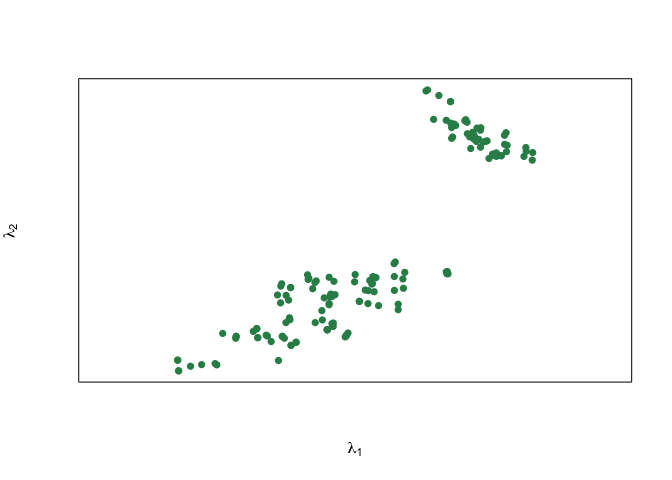
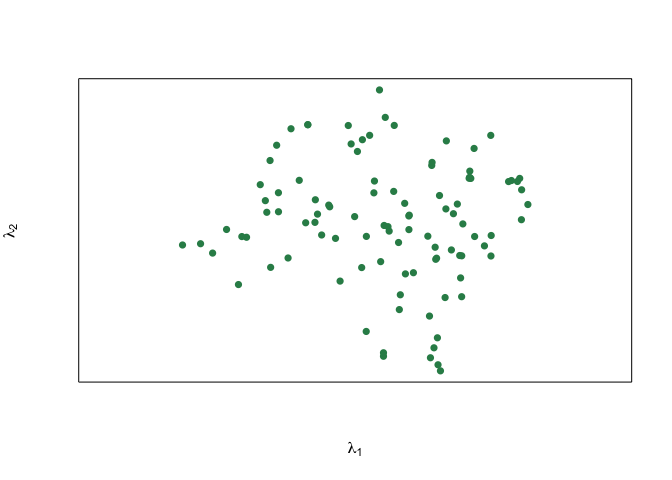
Updated read me

diff --git a/README.md b/README.md
@@ -6,7 +6,8 @@
 <!-- badges: start -->
 <!-- badges: end -->
 
-The goal of prinsurf is to construct a principal surfaces to a
+The goal of prinsurf is to construct a principal surfaces that are
+two-dimensional surfaces that pass through the middle of a
 $p$-dimensional dataset.
 
 ## Installation
@@ -21,21 +22,33 @@ devtools::install_github("RaeesaGaney91/prinsurf")
 
 ## Example
 
-This is a basic example:
+This is a basic example on a simulated data set:
 
 ``` r
 library(prinsurf)
-surface <- principal.surface(iris[,1:3])
-#> [1] 1.0000000 0.1863326 7.2079573
-#> [1] 2.000000000 0.003988568 7.179207870
-#> [1] 3.00000000 0.06336495 7.63411800
-#> [1] 4.00000000 0.08301524 7.00036984
-#> [1] 5.00000000 0.01244264 7.08747294
-#> [1] 6.00000000 0.05079004 7.44744594
-#> [1] 7.00000000 0.05868702 7.88451431
-#> [1] 8.00000000 0.02749157 7.66775665
-#> [1] 9.0000000 0.1244757 8.6222062
-#> [1] 10.00000000  0.04449618  8.23855097
+library(rgl)
+surface <- principal.surface(X)
+#> [1] 1.0000000 0.7552702 1.0275726
+#> [1] 2.00000000 0.06922002 0.95644399
+#> [1] 3.0000000 0.0153415 0.9417707
+#> [1] 4.00000000 0.04627398 0.98535019
+#> [1] 5.00000000 0.02334001 0.96235211
+#> [1] 6.000000000 0.008327922 0.954337712
+#> [1] 7.000000000 0.003055226 0.951421995
+#> [1] 8.00000000 0.00951877 0.96047836
+#> [1] 9.00000000 0.01086723 0.97091610
+#> [1] 10.0000000  0.0109745  0.9815714
 ```
 
 <img src="man/figures/README-example-1.png" width="100%" />
+
+    #> Warning in snapshot3d(scene = x, width = width, height = height): webshot =
+    #> TRUE requires the webshot2 package and Chrome browser; using rgl.snapshot()
+    #> instead
+
+<img src="../../../../../../private/var/folders/rt/kyvx8b4s3tz_8rwvs23fcxmr0000gn/T/Rtmps0iMk9/file7d036a53b63d.png" width="100%" />
+
+## Report Bugs and Support
+
+If you encounter any issues or have questions, please open an issue on
+the GitHub repository.
